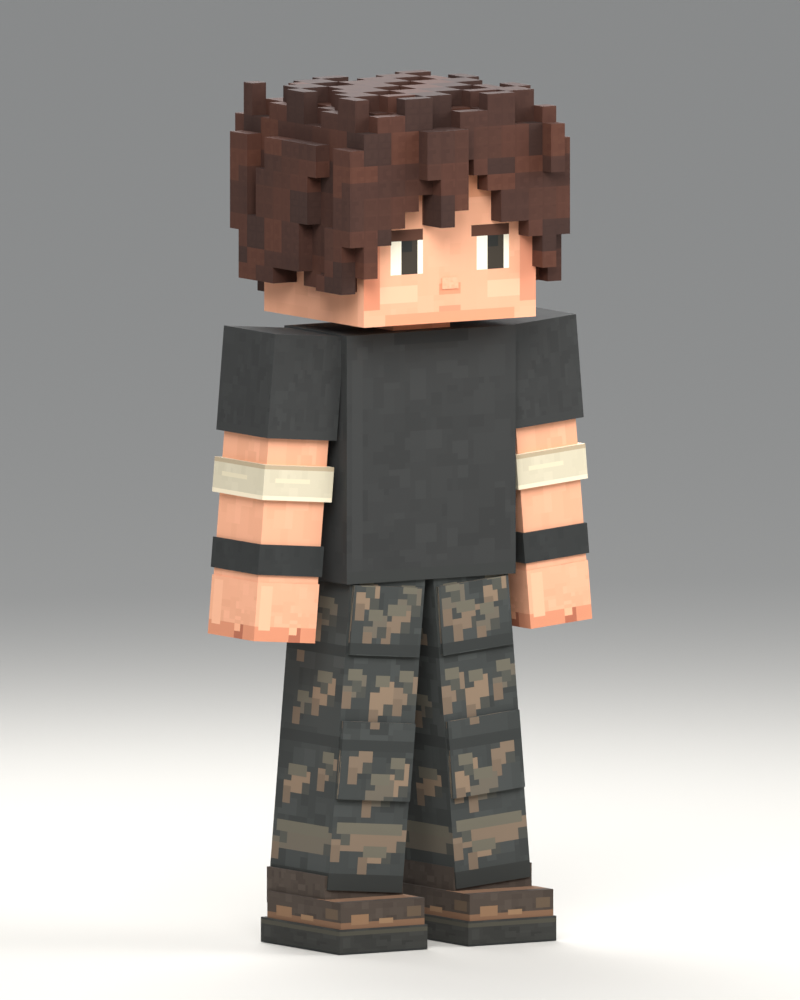
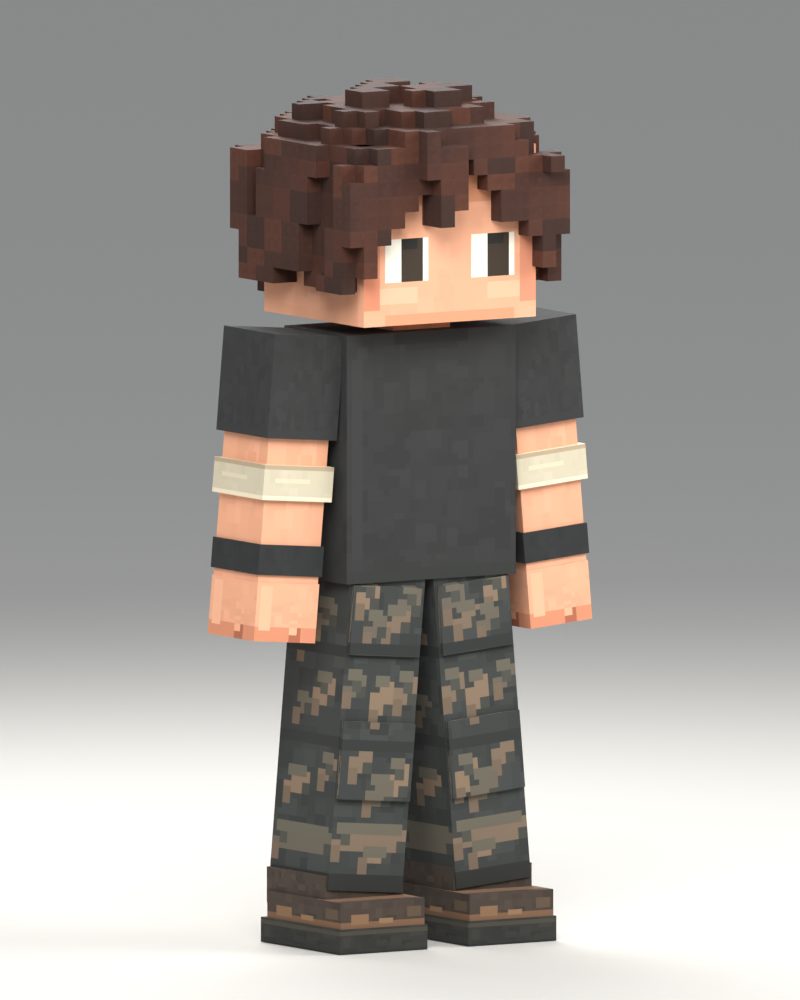
chore(project): refresh 7 project files
Modified: 7.
Text lines: +9 / -11; binary files: 3.
- Modify: "blender/characters/player/reviews/survivor_reference_v001/Survivor_Reference_v001.blend"
- Modify: "blender/characters/player/reviews/survivor_reference_v001/build_candidate.py"
- Modify: "blender/characters/player/reviews/survivor_reference_v001/make_atlas.py"
- Modify: "blender/characters/player/reviews/survivor_reference_v001/model_validation.json"
- Modify: "blender/characters/player/reviews/survivor_reference_v001/renders/Front.png" (binary)
- Modify: "blender/characters/player/reviews/survivor_reference_v001/renders/Front_3Q.png" (binary)
- Modify: "blender/characters/player/reviews/survivor_reference_v001/survivor_atlas.png" (binary)

Changed region(s): [[0.2812, 0.062, 0.7188, 0.186], [0.4688, 0.217, 0.6562, 0.31]]

diff --git a/blender/characters/player/reviews/survivor_reference_v001/build_candidate.py b/blender/characters/player/reviews/survivor_reference_v001/build_candidate.py
@@ -57,8 +57,7 @@ def box(name,center,size,tile,group,transform=None,crop=None):
  return make_mesh(name,vertices,FACE_INDICES,tiles,group,uvs)
 
 # Large cubic face; the head and all layered hair remain one rigid Head part.
-box('Head / simple voxel face',(0,0,1.555),(.438,.406,.390),['face','skin_side','skin_side','skin_side','skin_side','skin_side'],'Head')
-box('Small planar nose',(0,-.204,1.445),(.041,.003,.025),'skin_side','Head')
+box('Head / simple voxel face',(0,0,1.5475),(.438,.406,.375),['face','skin_side','skin_side','skin_side','skin_side','skin_side'],'Head')
 box('Neck / joined collar',(0,0,1.352),(.145,.175,.060),'neck','Neck')
 box('Charcoal short-sleeve shirt',(0,0,1.065),(.430,.255,.540),['shirt_front','shirt_back','shirt_side','shirt_side','shirt_side','shirt_side'],'Chest')
 
@@ -96,7 +95,7 @@ for i in range(-8,8):
   lock=(i//2*13+j//2*7)%5
   for k in range(15):
    z=BASE+(k+.5)*CELL
-   top=1.820+.018*((i//2*7+j//2*11)%3-1)+(.018 if abs(x)<.18 and abs(y)<.16 else 0.)
+   top=1.850-.115*(abs(x)/.29)**2-.090*(abs(y)/.28)**2+.012*((i//2*7+j//2*11)%3-1)
    # Cut corners/upper silhouette in broad steps, with a few controlled crown tufts.
    hw=.290 if z<1.765 else .260
    hd=.290 if z<1.78 else .260

diff --git a/blender/characters/player/reviews/survivor_reference_v001/make_atlas.py b/blender/characters/player/reviews/survivor_reference_v001/make_atlas.py
@@ -37,11 +37,10 @@ for name,seed in [('skin',2),('skin_side',3),('hand',4),('neck',5)]:
 im,d=tile('face',32,32,skin,3,7)
 d.rectangle((0,0,31,9),fill=(220,149,111));d.rectangle((0,12,2,28),fill=(215,135,102));d.rectangle((29,12,31,28),fill=(218,142,110))
 # Simple wide white eyes with dark warm pupils, no eyelashes or ornamental detail.
-for x in [5,21]:
- d.rectangle((x,17,x+5,22),fill=(247,238,215));d.rectangle((x+2,17,x+4,22),fill=(52,44,33));d.rectangle((x+2,17,x+3,18),fill=(27,28,24))
- d.rectangle((x-1,15,x+5,16),fill=(85,50,34))
+for x in [4,20]:
+ d.rectangle((x,16,x+7,23),fill=(248,240,223));d.rectangle((x+3,16,x+6,23),fill=(55,43,30));d.rectangle((x+3,16,x+5,17),fill=(28,27,23))
 d.rectangle((3,25,9,27),fill=(247,183,148));d.rectangle((23,25,28,27),fill=(247,183,148))
-d.rectangle((14,25,17,26),fill=(221,145,109));d.rectangle((14,29,17,29),fill=(217,145,111));d.rectangle((4,30,27,31),fill=(226,151,114))
+d.rectangle((4,30,27,31),fill=(226,151,114))
 store('face',im)
 for i,name in enumerate(['shirt_front','shirt_back','shirt_side','sleeve']):
  im,d=tile(name,32,40 if name!='sleeve' else 24,(44,45,44),4,20+i)
